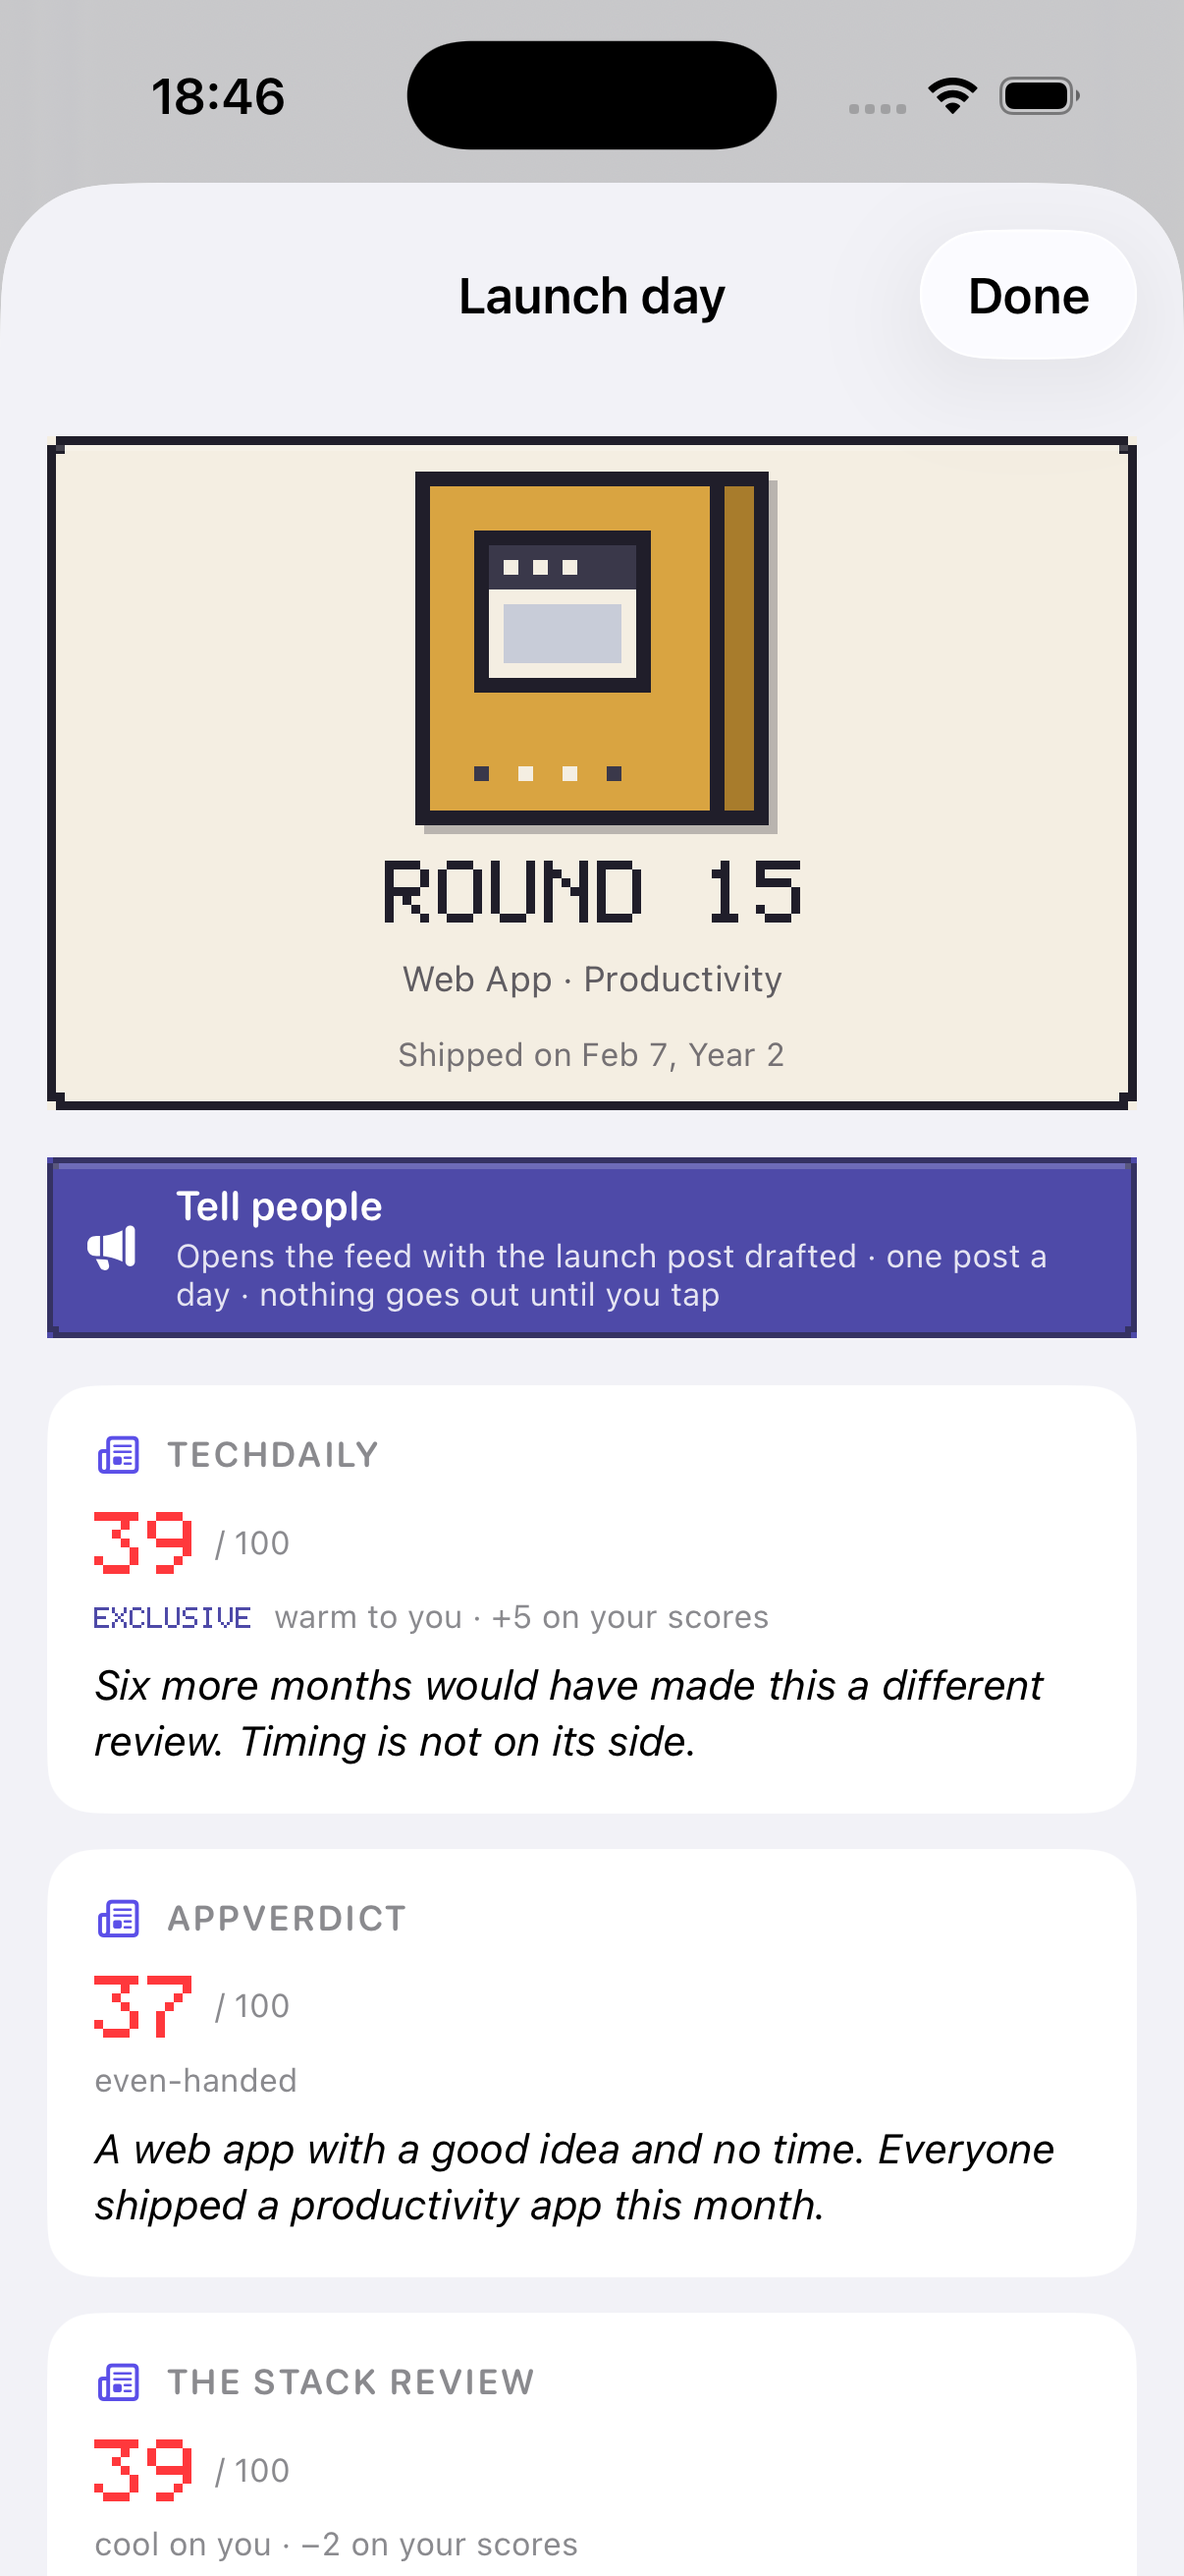
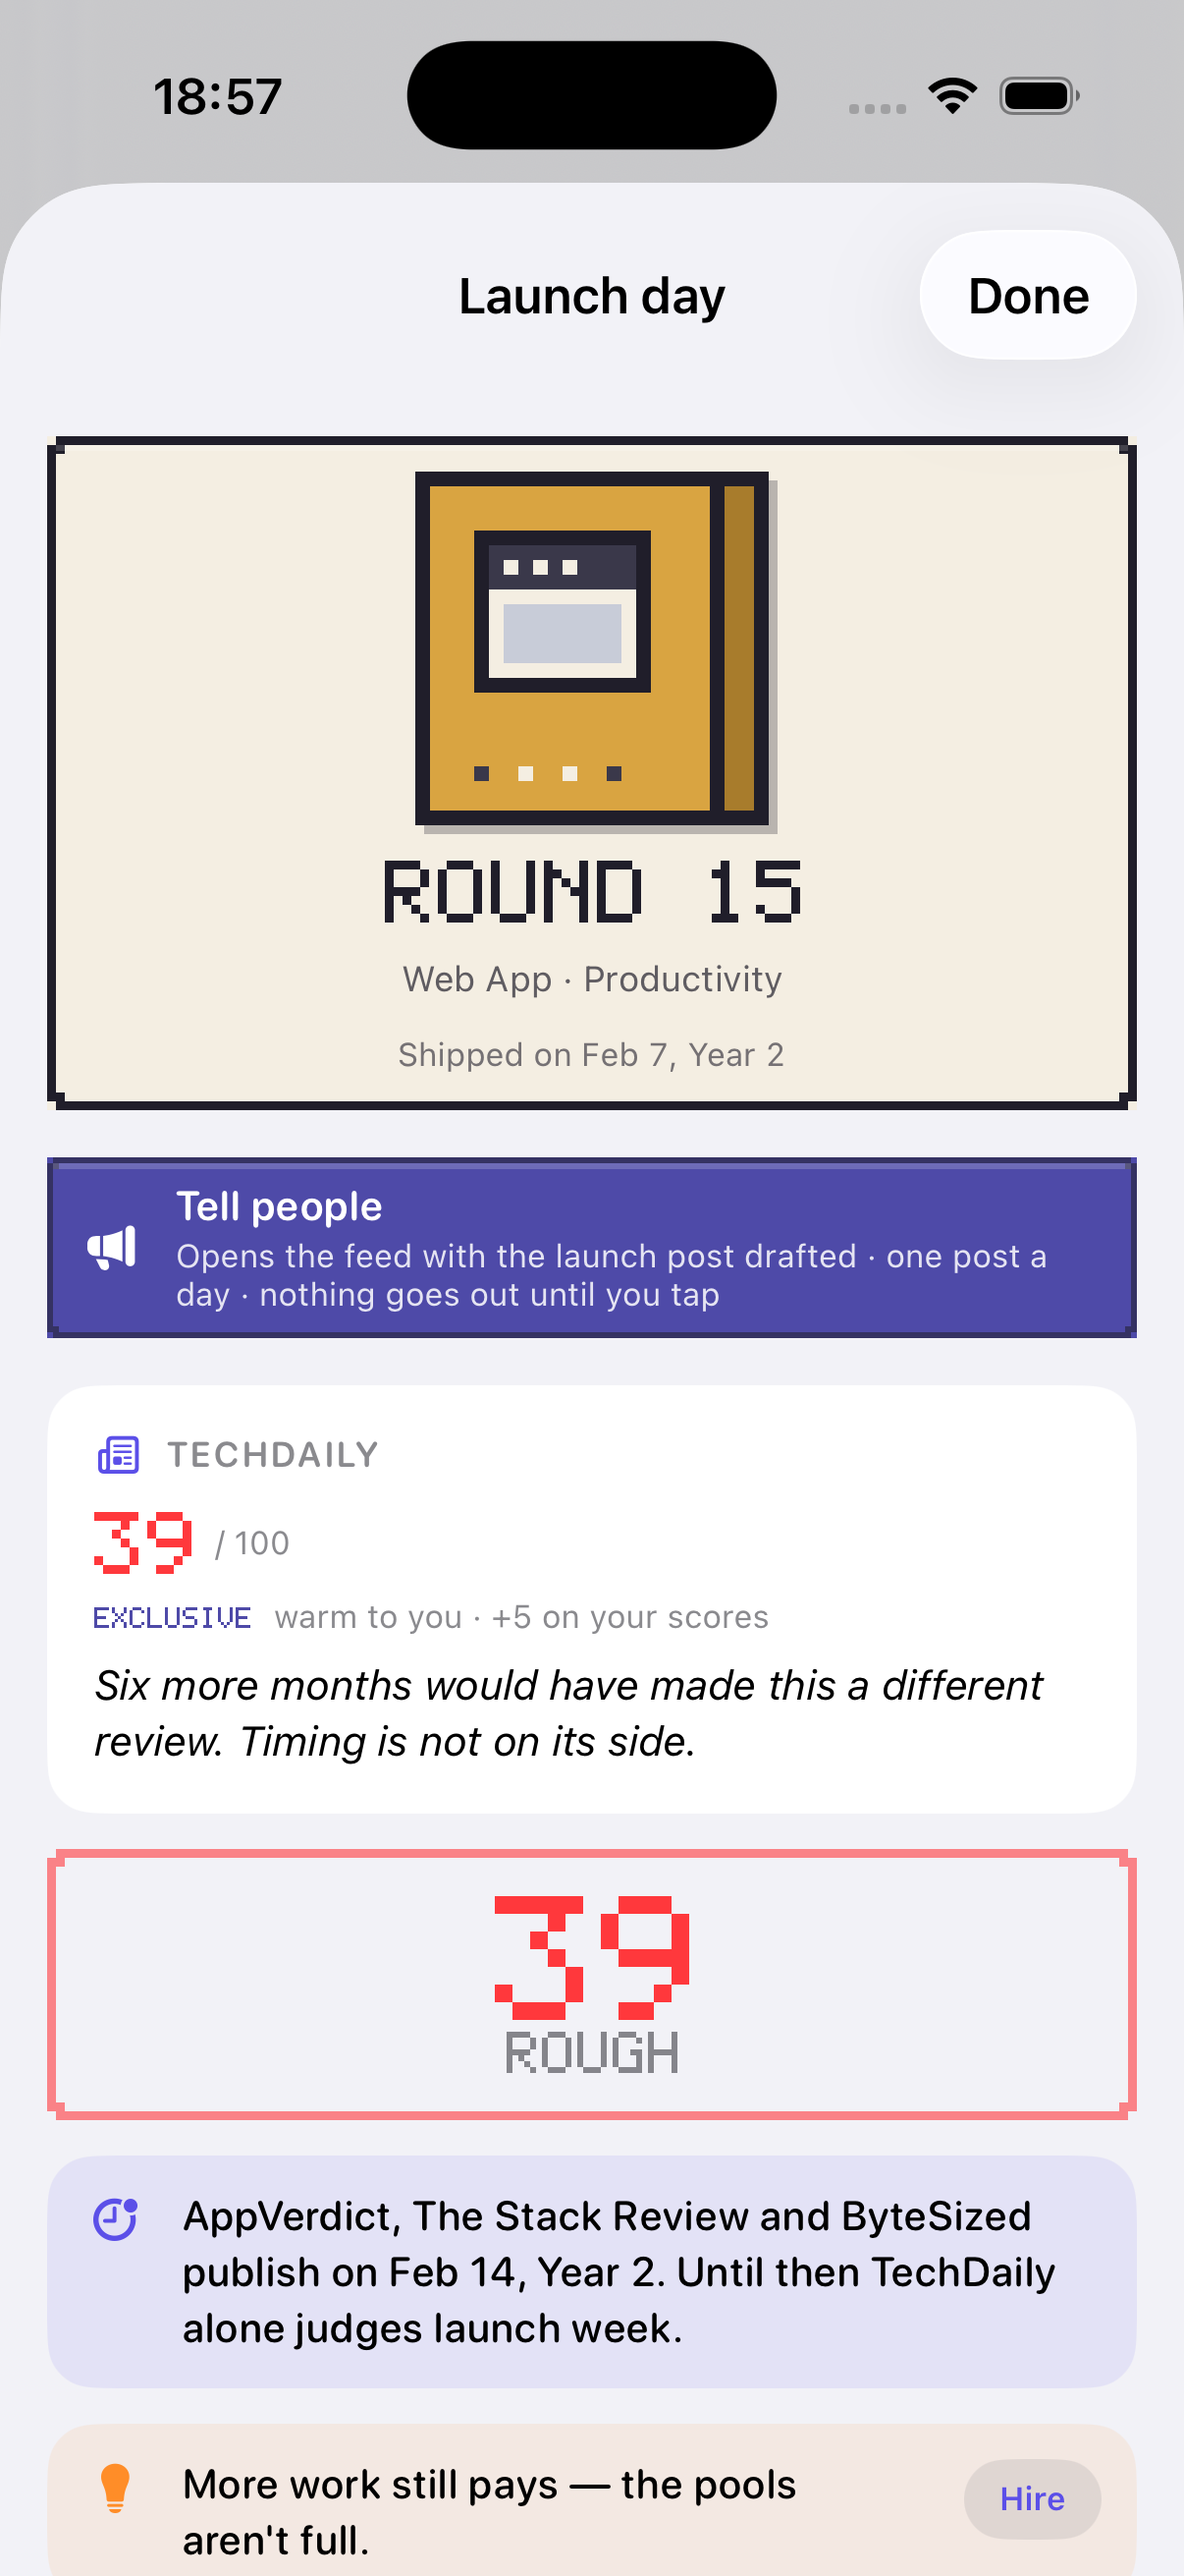
T7: localize the EXCLUSIVE stamp (keeps the pixel-chrome pin at 49); final shots; report with suites
Engine 943, content 52, save 34, PixelKit 336 (solo; the perf test flakes
under load), app Executed 385 tests, with 0 failures. No re-pins.

Claude-Session: https://claude.ai/code/session_01CPw5cioBVEbyRi1WqFcSsH

Changed region(s): [[0.0307, 0.7105, 0.9818, 1.0], [0.1534, 0.0309, 0.2454, 0.0618]]

diff --git a/App/Sources/Components/LaunchDaySheet.swift b/App/Sources/Components/LaunchDaySheet.swift
@@ -392,7 +392,10 @@ struct ReviewCardView: View {
                 if isExclusive || byline != nil {
                     HStack(spacing: Theme.Spacing.sm) {
                         if isExclusive {
-                            PixelText(text: "EXCLUSIVE", scale: 1, color: Theme.pixelAccent)
+                            PixelText(
+                                text: String(localized: "EXCLUSIVE", comment: "Launch day: stamp on the review of the outlet that had the build first (bitmap face, A-Z only)"),
+                                scale: 1, color: Theme.pixelAccent
+                            )
                         }
                         if let byline {
                             Text(byline)

diff --git a/docs/product/iteration-17-lanes/t7.md b/docs/product/iteration-17-lanes/t7.md
@@ -276,22 +276,32 @@ game.)
 
 ## Suites
 
-- **Engine:** ✔ Test run with 943 tests.
+- **Engine:** ✔ Test run with 943 tests, on the final engine code (embargo, snub 1, drift).
 - **Content:** ✔ Test run with 52 tests.
 - **Save:** ✔ Test run with 34 tests.
-- **PixelKit:** ✔ Test run with 336 tests. The first run failed `OfficePerfTests.repeatedFramesRasterizeNothing` (rasterized 33, expected 0) while other lanes were building. It passed clean on a solo re-run, and this lane changes nothing in PixelKit.
-- **App:** SUITES-APP
+- **PixelKit:** ✔ Test run with 336 tests on a solo run.
+  `OfficePerfTests.repeatedFramesRasterizeNothing` failed twice when run
+  beside other builds (rasterized 33, then 45; expected 0). It passed both
+  times it ran alone. This branch has no PixelKit diff since
+  `scaffold-17`.
+- **App:** `Executed 385 tests, with 0 failures` on `ws-l7` (the run after the `EXCLUSIVE` localization; see Re-pins).
 
 No test was added.
 
 ## Re-pins
 
-REPINS
+None. No pinned PNG or number was re-recorded, and no engine or release
+fixture moved.
+
+The first app run caught one new bare `PixelText` literal: the
+`EXCLUSIVE` stamp took `StringsAuditTests.testNoNewUnlocalizedPixelChrome`
+from its pinned 49 to 50. The stamp now goes through
+`String(localized:)`, so the pin stands at 49 rather than being re-pinned.
 
 ## Merge dry run
 
 Run with `git merge-tree --write-tree t7-press <branch>` at tip
-`6282124`. T1 has 2 commits past `scaffold-17`, T2 1, T3 3, T4 2 and T5 1;
+`c693330`. T1 has 3 commits past `scaffold-17`, T2 1, T3 3, T4 3 and T5 3;
 T6 and `iteration-17` have none. Every CONFLICT line:
 
 - **t1-exits** — `CONFLICT (content): Merge conflict in
@@ -306,8 +316,13 @@ T6 and `iteration-17` have none. Every CONFLICT line:
   ship `confirmationDialog` with `.sheet { ShipSheet(...) }`, and this
   lane's two pairs sit in that area: the `ExclusiveRow` under the Ship
   button and the `grantAfterShip` inside the dialog's *Ship it*.
-  **Resolution:** take T2's side; drop both of this lane's pairs in the
-  file. Then move the row onto T2's sheet, one home per thing. In
+  The conflict is that one hunk: the old dialog, where this lane's grant
+  pair sits. The embargo pairs in the same file (the header card's
+  `today`, the header badge, the reviews card) and the `ExclusiveRow`
+  mount under the Ship button merge cleanly.
+  **Resolution:** take T2's side of the hunk, which drops this lane's grant
+  pair. Keep the embargo pairs. Also delete the now-orphaned `ExclusiveRow`
+  mount pair under the Ship button, so the row has one home. Then move the row onto T2's sheet, one home per thing. In
   `ShipSheet.swift`:
   - in `body`, after `tiers`, add
     `// MARK: T7 … ExclusiveRow(engine: engine, productID: productID) // MARK: end T7`;
@@ -317,10 +332,10 @@ T6 and `iteration-17` have none. Every CONFLICT line:
 
   That covers the plain ship, the priced ship and the replacement.
 - **t2-build** — `CONFLICT (content): Merge conflict in
-  App/Sources/Screens/Products/ProductsListView.swift`. Same resolution:
-  take T2's side and drop this lane's two pairs there (the row above
-  `WarRoomEntryButton` and the grant in the removed dialog). The row and the
-  grant live on `ShipSheet` as above.
+  App/Sources/Screens/Products/ProductsListView.swift`. The same single
+  dialog hunk. Take T2's side and delete this lane's row mount above
+  `WarRoomEntryButton`. Keep the released row's `today` pairs, which merge
+  cleanly. The row and the grant live on `ShipSheet` as above.
 - **t3-people** — `CONFLICT (content): Merge conflict in
   Packages/TycoonEngine/Sources/TycoonEngine/Resources/Balance.json`. Keep
   both appended blocks.
@@ -410,9 +425,13 @@ Under `t7/`:
 - `before-launchday.png` (`t7-plain`): the default launch sheet, all four
   verdicts on launch day, no bylines. This is what the scaffold shows.
 - `after-launchday-bylines.png` (`t7-launch`): the same ship with the
-  outlets dressed; each card prints its standing in words and points.
-- `after-launchday-exclusive.png` (`t7-exclusive`): TechDaily first, with
-  the `EXCLUSIVE` stamp, warmer after the grant; the others cooler.
+  outlets dressed warm, friendly, cool and cold, drifted one toward 0 by
+  the launch. Each card prints its standing in words and points.
+- `after-launchday-exclusive.png` (`t7-exclusive`): only TechDaily's
+  verdict is out, with the `EXCLUSIVE` stamp. The average stamp reads its
+  39, and the embargo row reads "AppVerdict, The Stack Review and ByteSized
+  publish on Feb 14, Year 2. Until then TechDaily alone judges launch
+  week." 
 - `after-ship-row.png`: *Exclusive to… none* under *Ship it* on the
   Products list, with the even-handed answer printed.
 - `after-paper.png` (`t7-paper`): the next issue leads "TechDaily had Round
